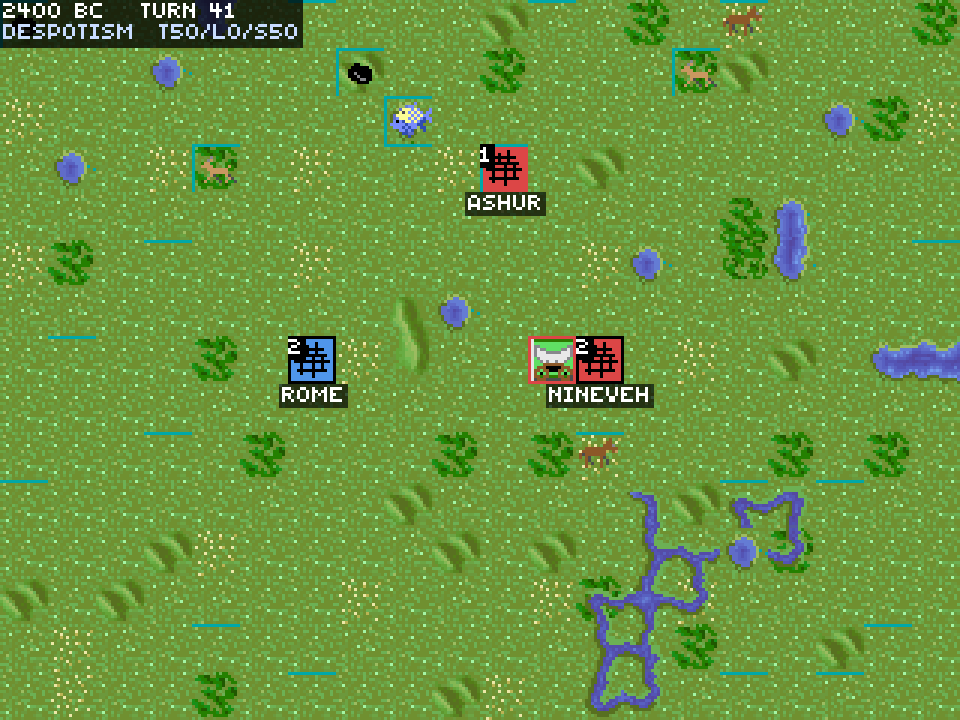
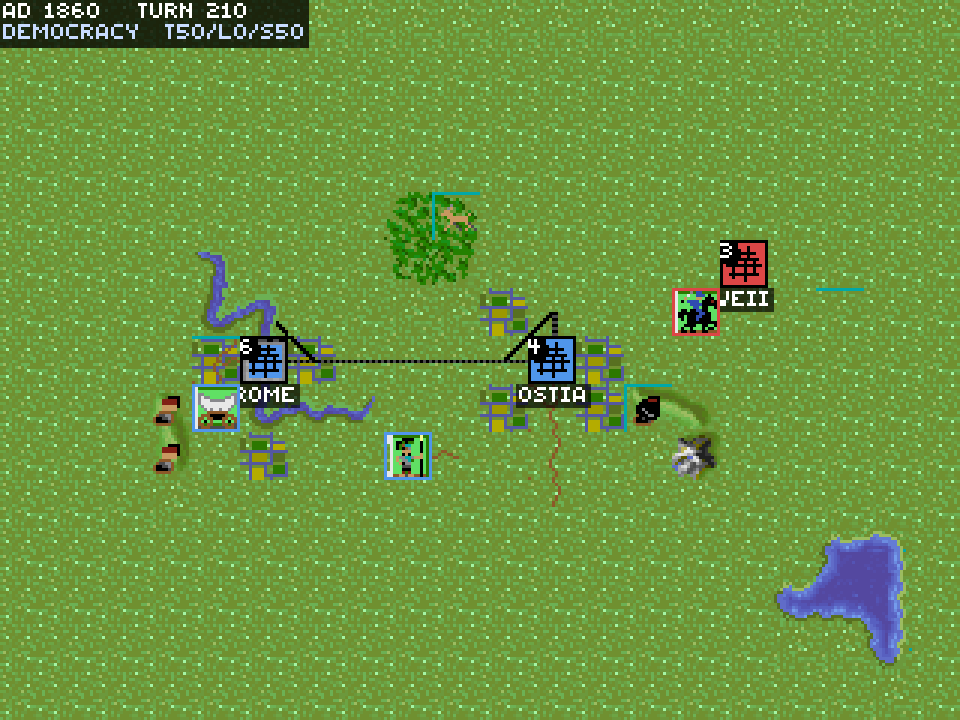
Refresh the hero screenshot to a built-up landscape
Replace docs/screenshot.png with a developed scene showcasing the terrain
improvements: Rome (walled) and Ostia linked by railroad, irrigated fields,
mined hills, a garrisoned fort, a river, and a red AI rival. Update the
caption to match.

diff --git a/README.md b/README.md
@@ -11,9 +11,11 @@ extracted from the DOS game *Sid Meier's Civilization* (the sibling
 
 ![civ-lisp rendering a game with edge-blended terrain](docs/screenshot.png)
 
-*A game after 40 turns: edge-blended terrain (TER257), rivers and resource
-specials (SP257), the human city/units (blue borders) and an AI opponent that
-has expanded into several cities and units (red borders).*
+*A developed realm: the player's cities **Rome** (walled) and **Ostia**, linked
+by a **railroad** and ringed with **irrigated** farmland and **mined** hills; a
+**fort** garrisons the southern approach, and the rival **Veii** (red borders)
+looms east with cavalry. Edge-blended terrain (TER257), rivers and resource
+specials (SP257); blue/red borders mark each civilization.*
 
 ![cities close-up](docs/cities.png)
 
